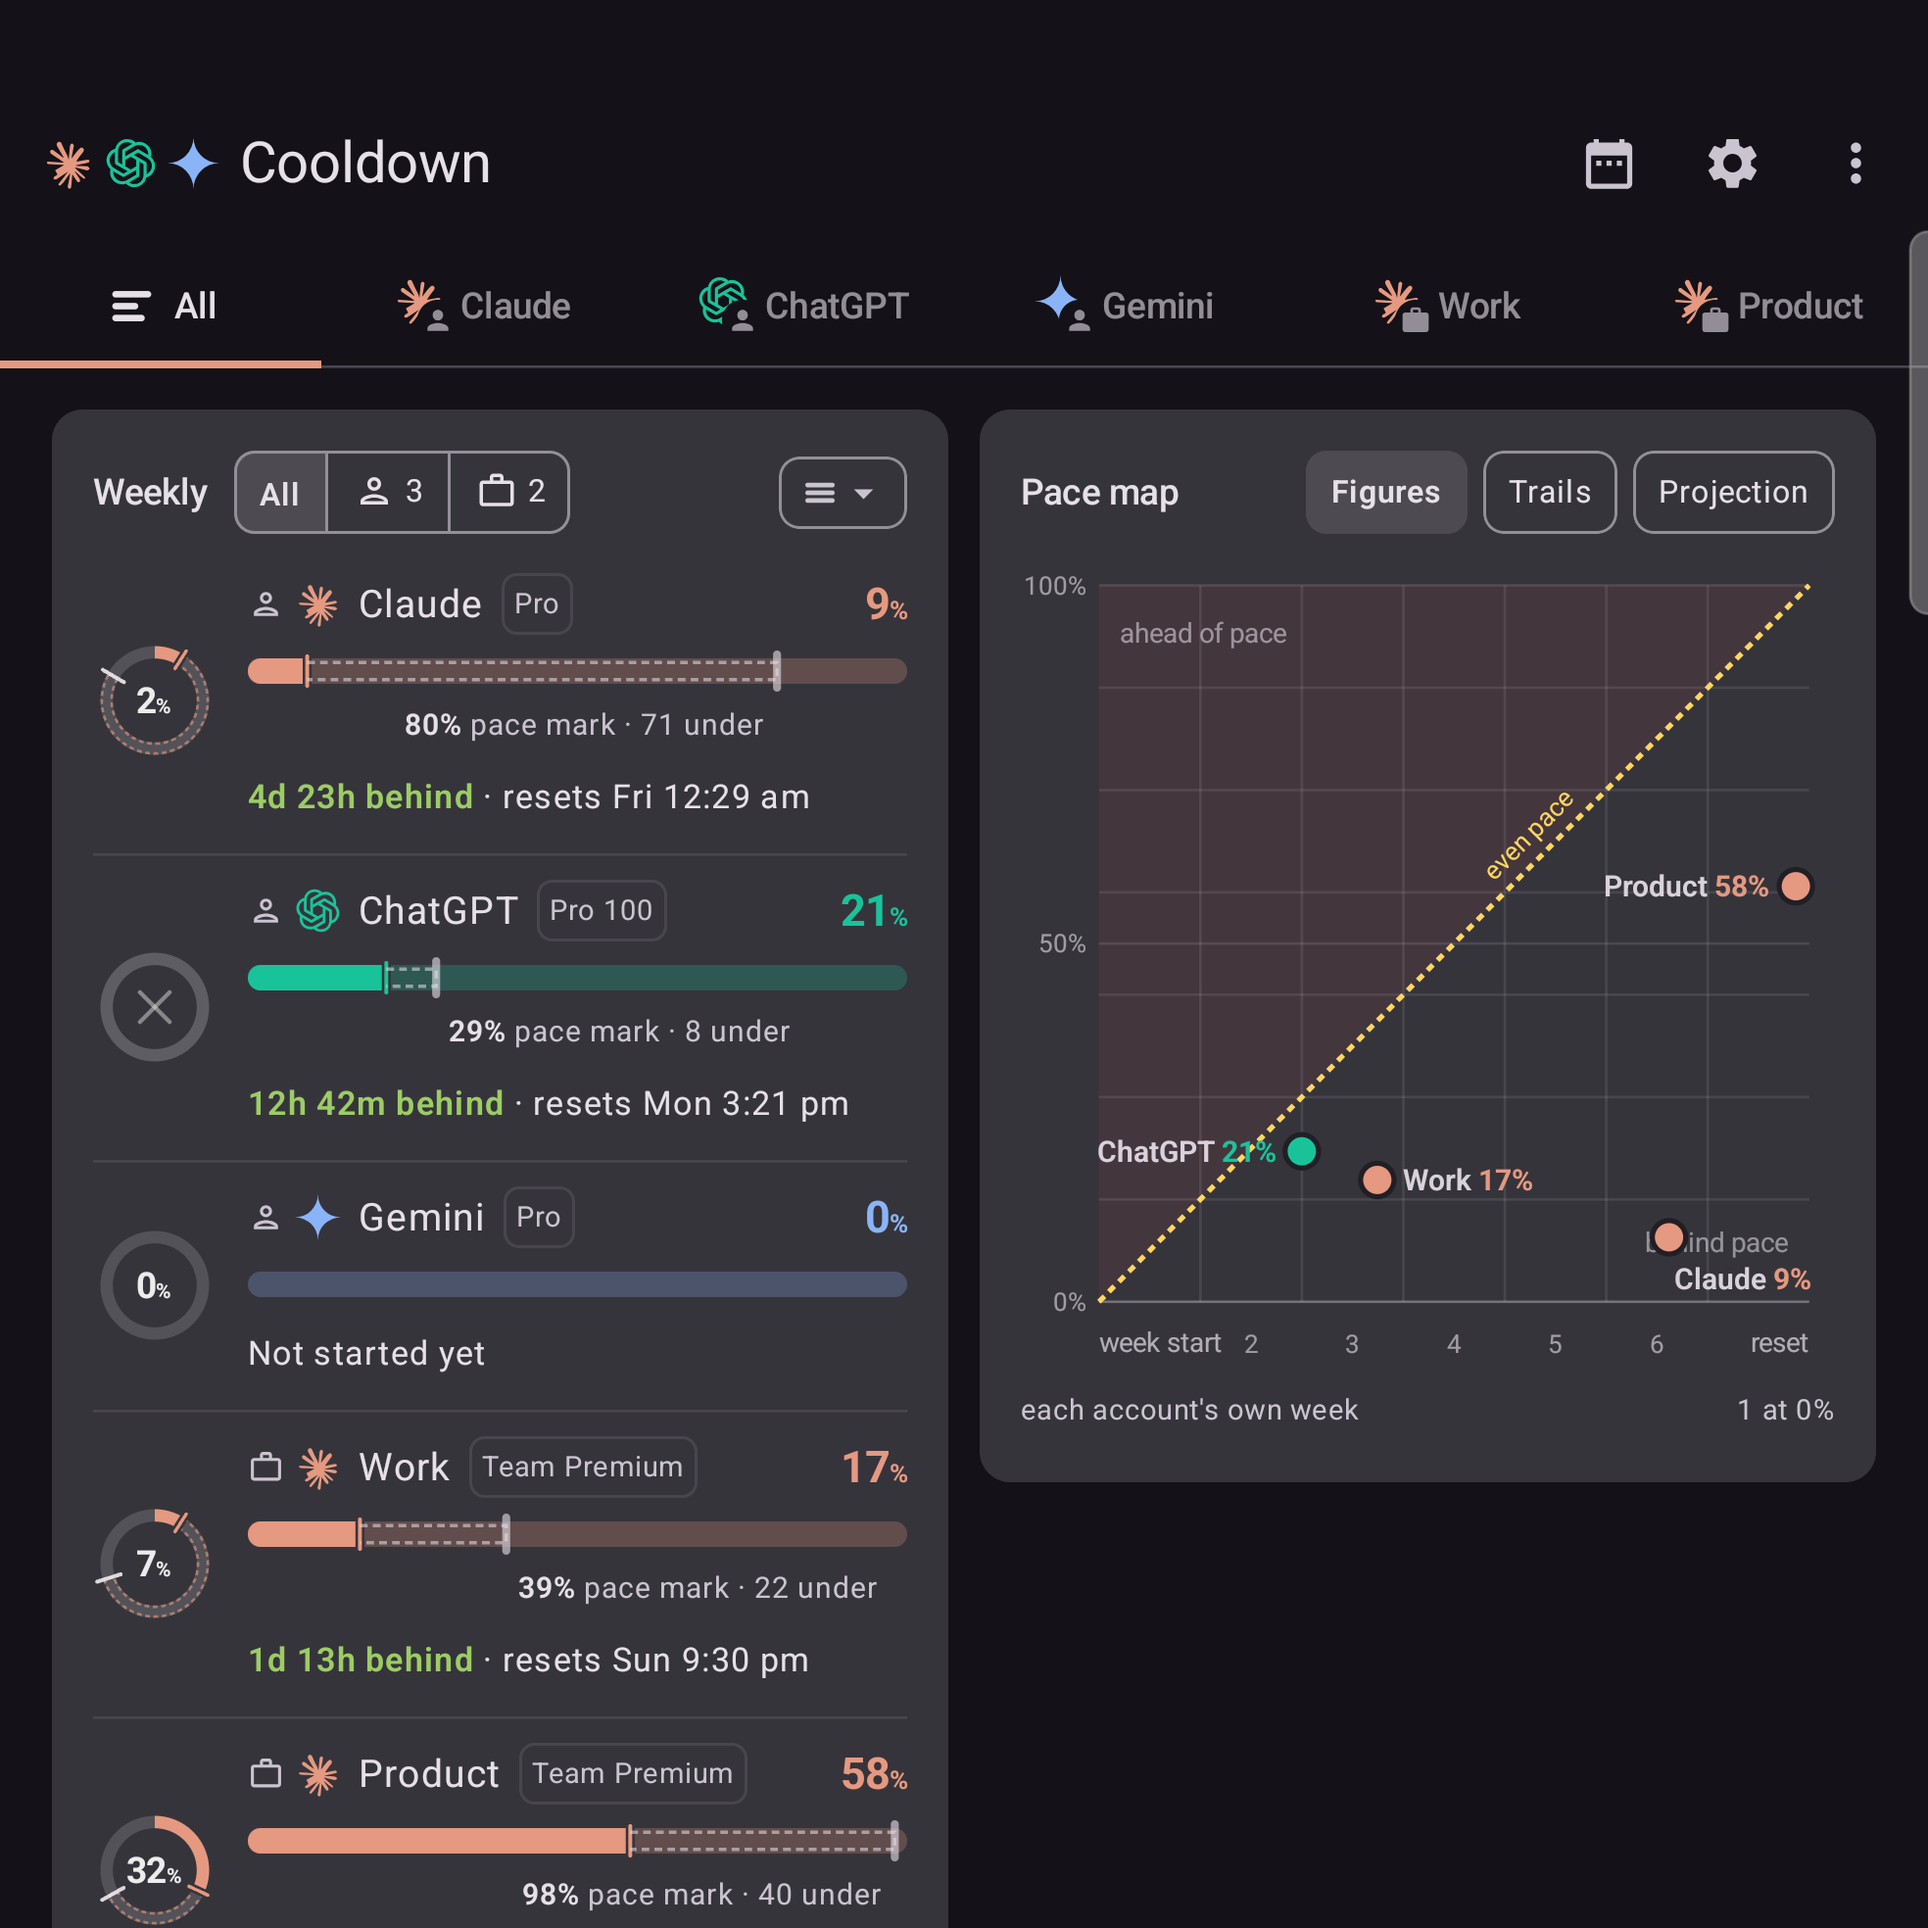
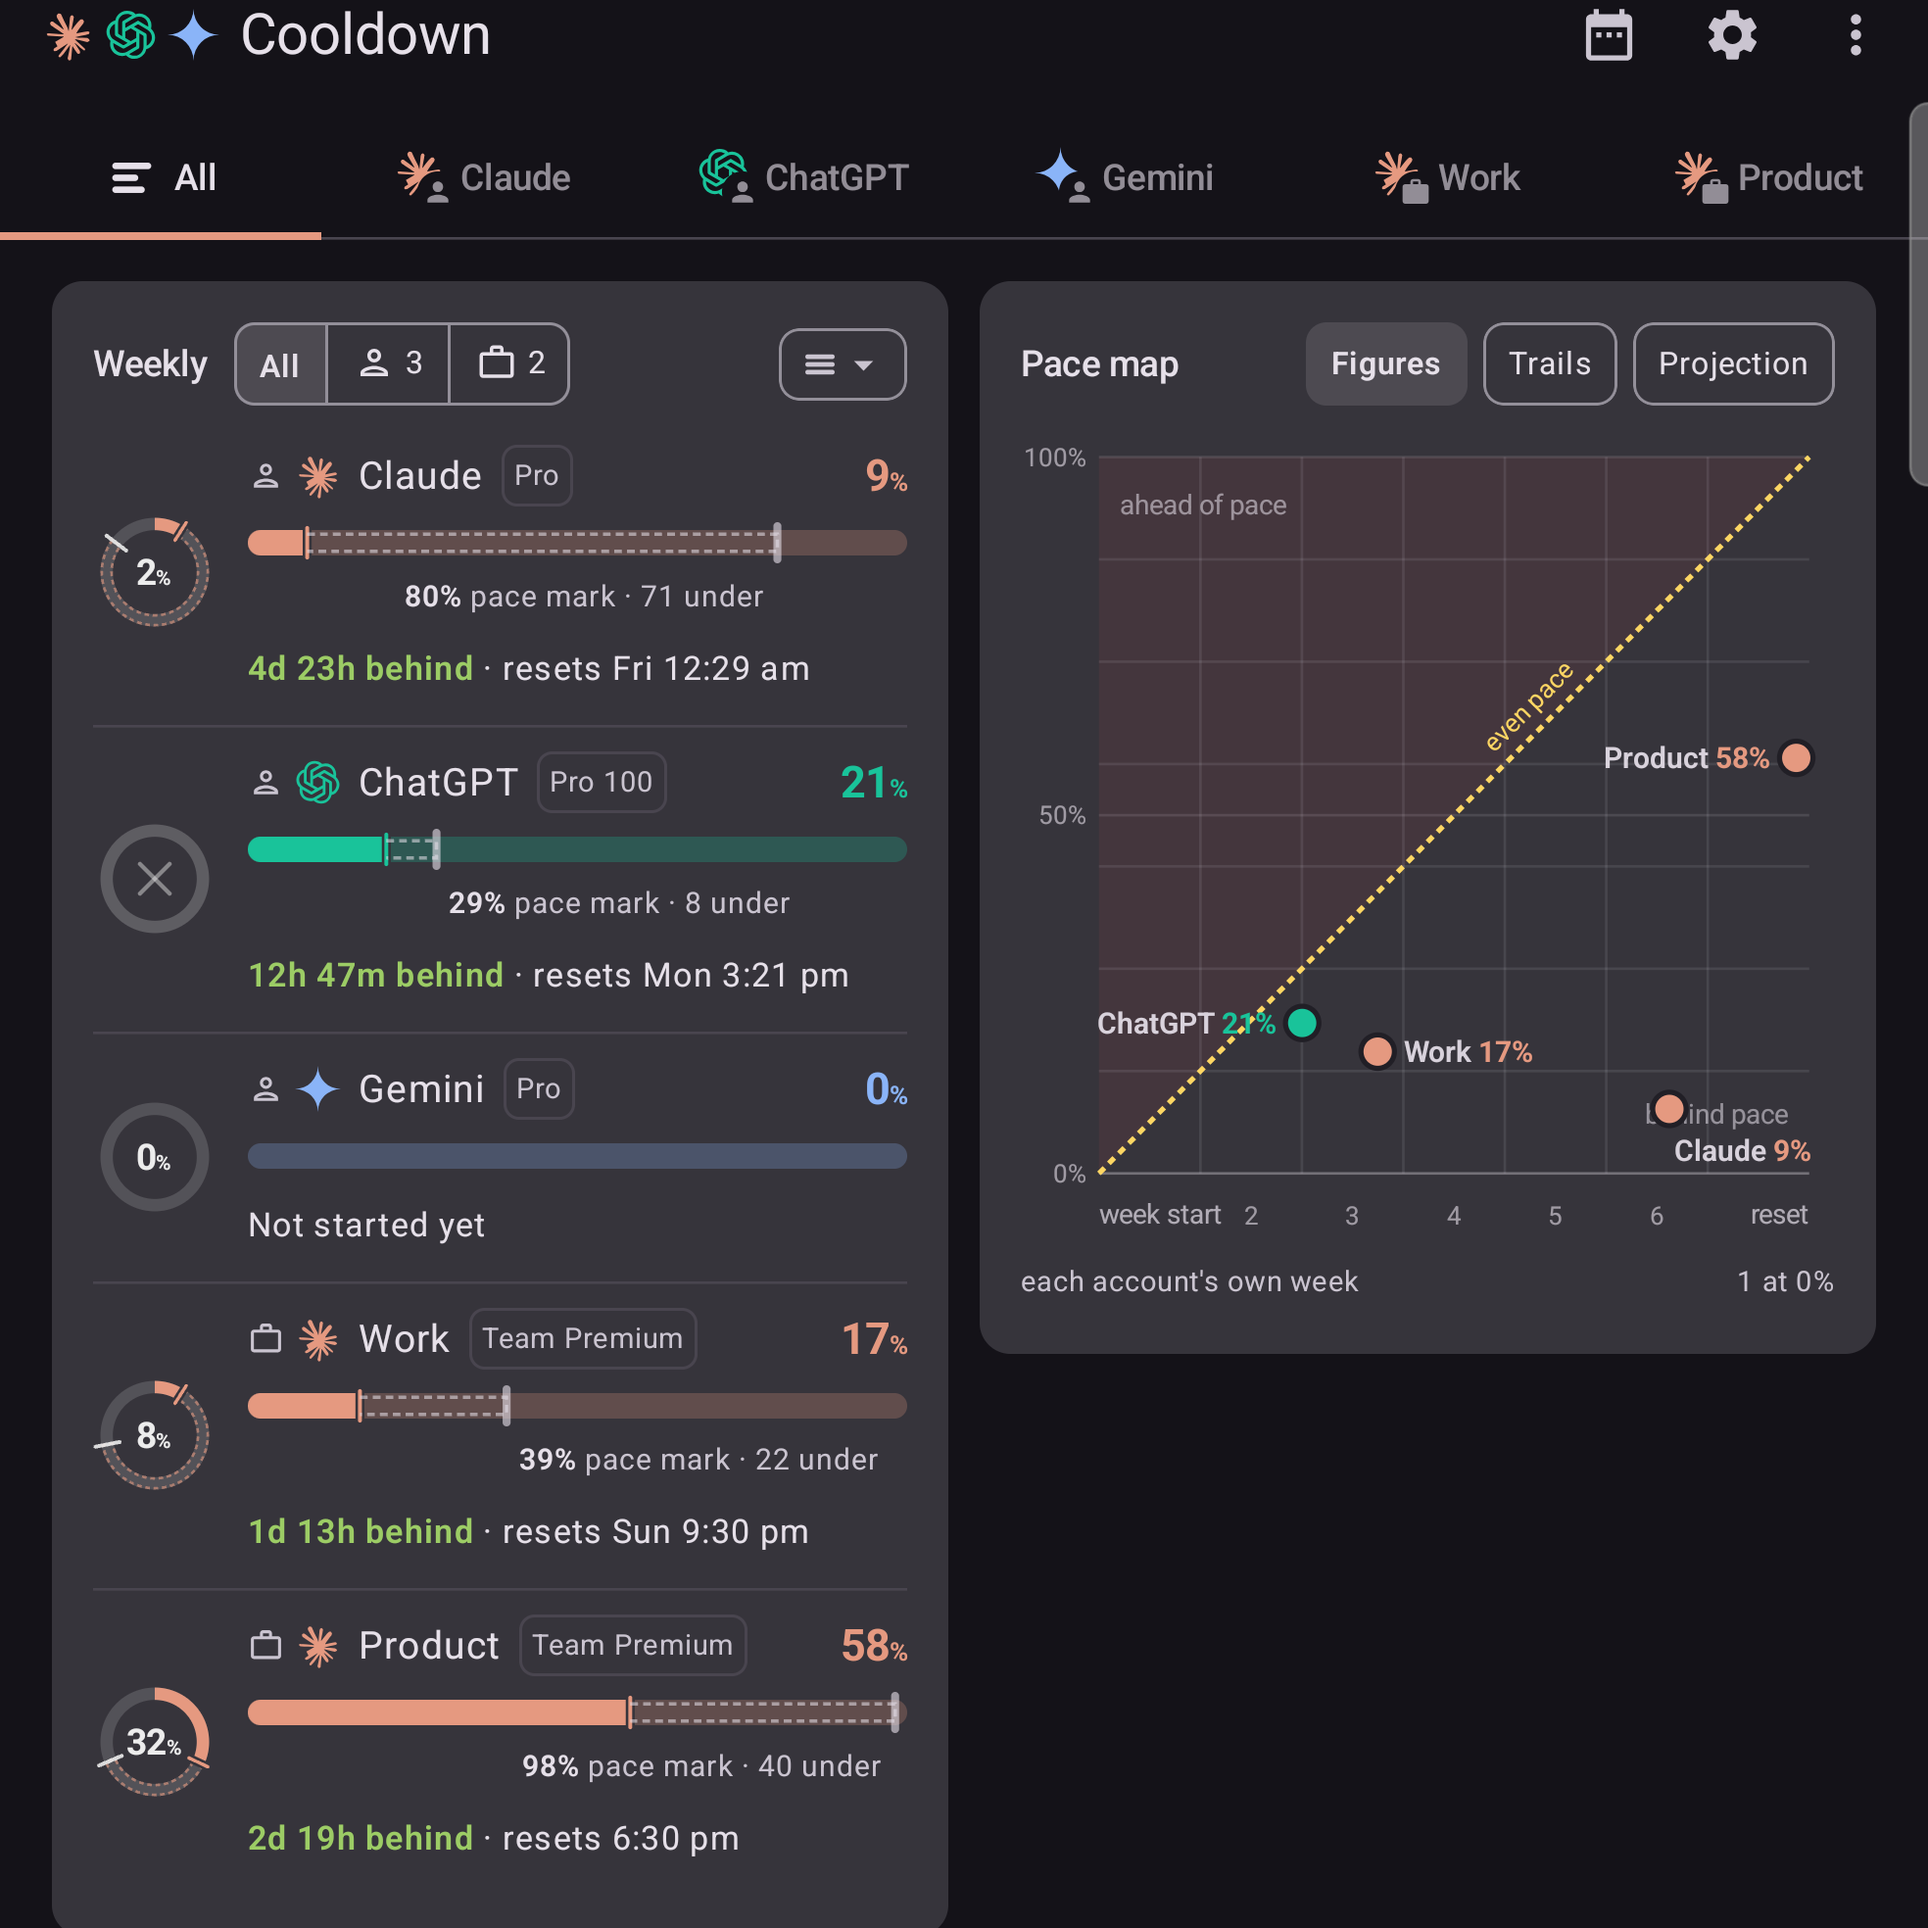
docs(play): foldable shots 1, 2 and 4 retaken full screen with the taskbar hidden

diff --git a/release/play/listing.md b/release/play/listing.md
@@ -158,8 +158,8 @@ Account risk: Cooldown reads undocumented usage endpoints using your own sign-in
   UI). No screenshot may be framed, captioned or arranged to suggest endorsement by a provider.
 - [x] **Foldable screenshots, 5** — `release/play/screenshots-foldable/`, captured 2026-11-18 on the Fold 7 (release
   build 2.0 (26), real accounts, Summary on All, Pace map with Trails off, no e-mail on screen). Play's required trio:
-  1. `fold-01-inner-summary.png` — unfolded, portrait, 1:1 (1968×1968; status bar and taskbar cropped, top padded with
-     the app background)
+  1. `fold-01-inner-summary.png` — unfolded, portrait, 1:1 (1968×1968; full screen with the taskbar hidden, status bar
+     cropped)
   2. `fold-02-inner-landscape.png` — unfolded, landscape, 4:3 (2184×1638)
   3. `fold-03-cover-summary.png` — folded cover screen, 10:16 (1250×2000; sides padded with the app background)
   4. `fold-04-inner-account.png` — unfolded, the Product tab: weekly and Fable bars over the two side-by-side charts, 1:1
